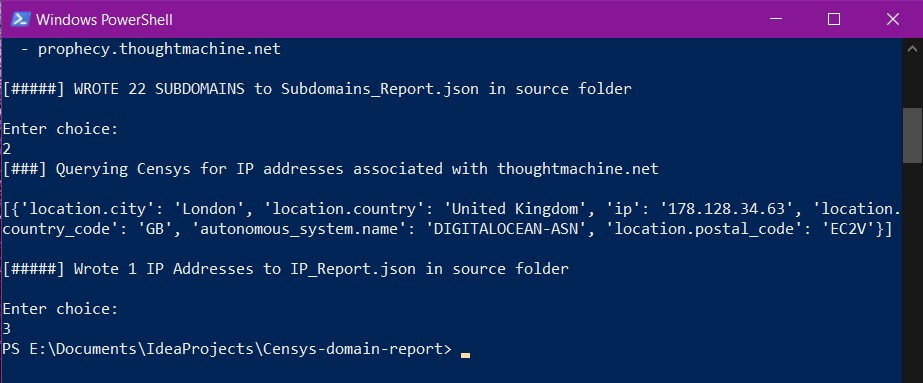
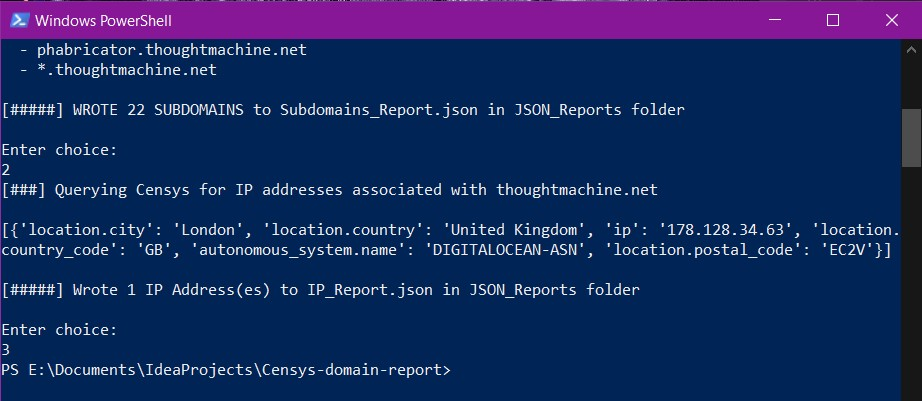
Added JSON_Reports folder

diff --git a/domainQuery.py b/domainQuery.py
@@ -1,6 +1,7 @@
 #!/usr/bin/env python3
 
 import configparser
+import os
 from random import shuffle
 
 import censys.certificates
@@ -69,10 +70,12 @@ def output_subdomains(domain, subdomains):
     print('')
 
     # Saves the list of found subdomains to an output file
+    if not os.path.exists("./JSON_Reports/"):
+        os.makedirs("./JSON_Reports/")
     json_object = json.dumps(subdomains, indent=4)
-    with open("Subdomains_Report.json", "w") as outfile:
+    with open("./JSON_Reports/Subdomains_Report.json", "w") as outfile:
         outfile.write(json_object)
-        print('[#####] WROTE %d SUBDOMAINS to Subdomains_Report.json in source folder\n' % (len(subdomains)))
+        print('[#####] WROTE %d SUBDOMAINS to Subdomains_Report.json in JSON_Reports folder\n' % (len(subdomains)))
 
 
 def ipv4_query(domain, ipv4_fields):
@@ -87,10 +90,12 @@ def ipv4_query(domain, ipv4_fields):
             print(res_list)
 
     # Writing console output to Json file
+    if not os.path.exists("./JSON_Reports/"):
+        os.makedirs("./JSON_Reports/")
     json_object = json.dumps(res_list, indent=4)
-    with open("IP_Report.json", "w") as outfile:
+    with open("./JSON_Reports/IP_Report.json", "w") as outfile:
         outfile.write(json_object)
-        print('\n[#####] Wrote %d IP Addresses to IP_Report.json in source folder\n' % (len(res_list)))
+        print('\n[#####] Wrote %d IP Address(es) to IP_Report.json in JSON_Reports folder\n' % (len(res_list)))
 
 
 # Prints the list of found ip addresses to console
